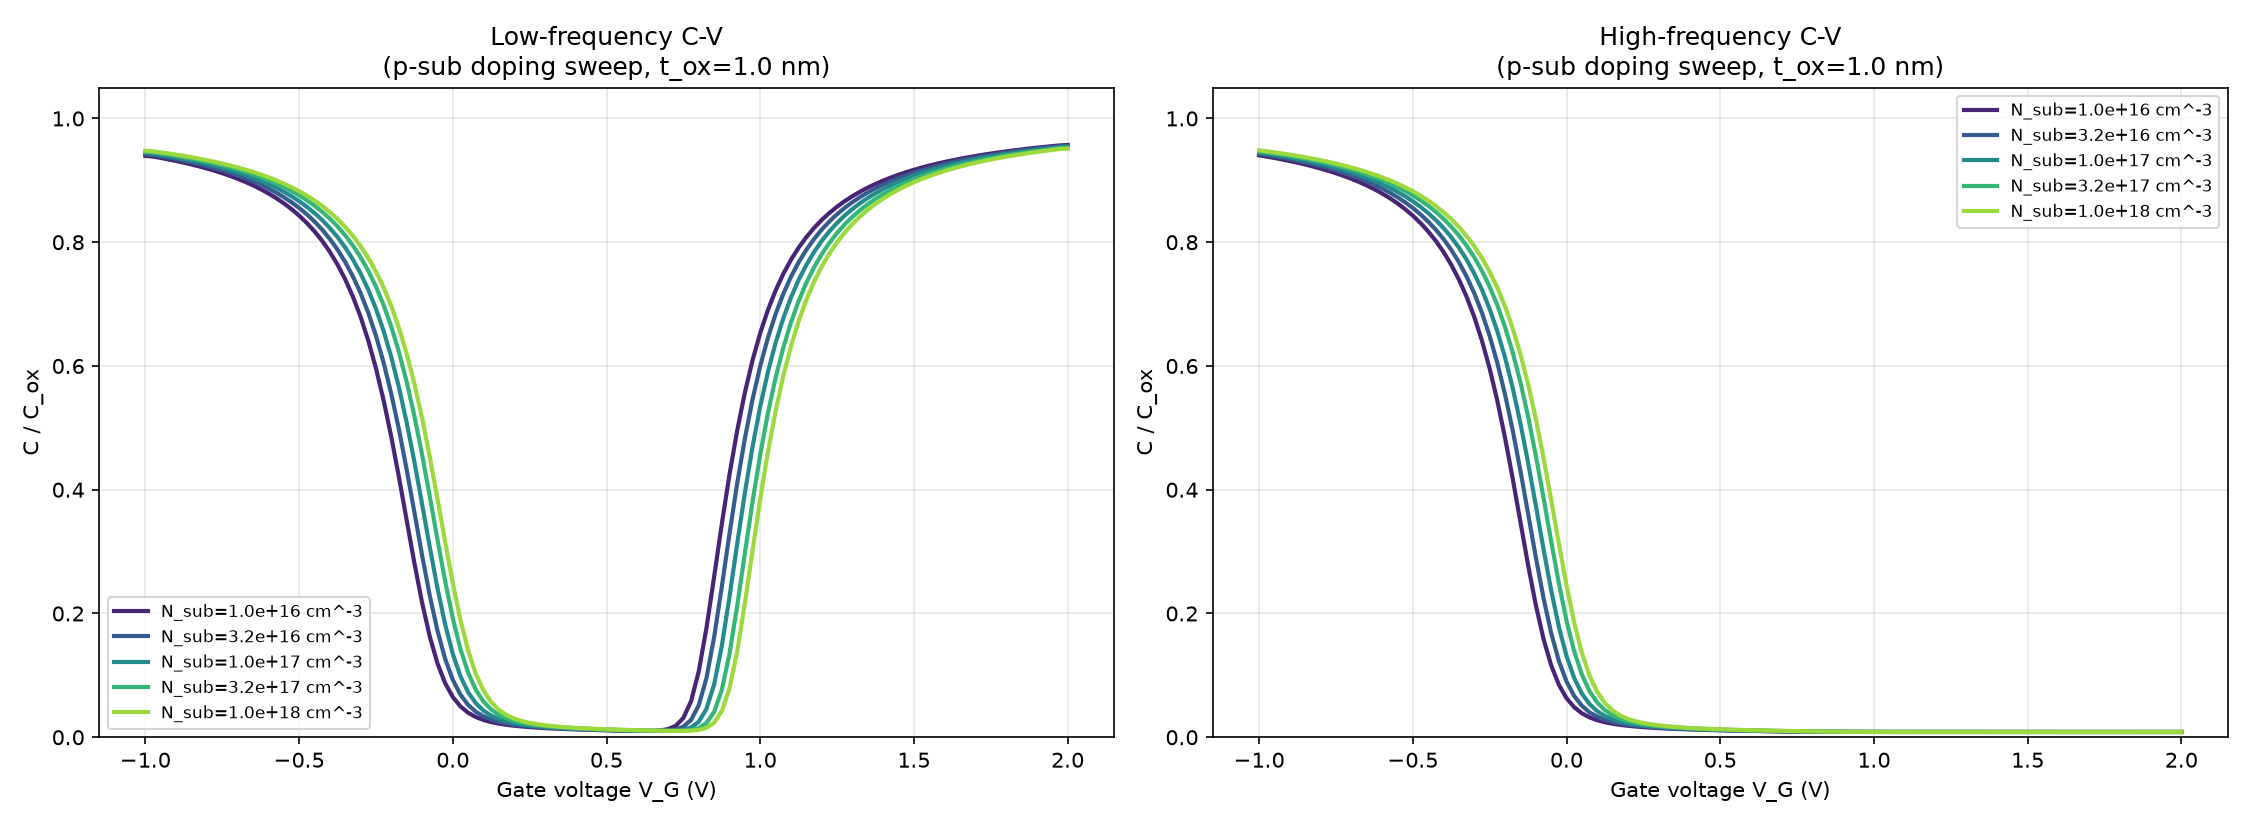
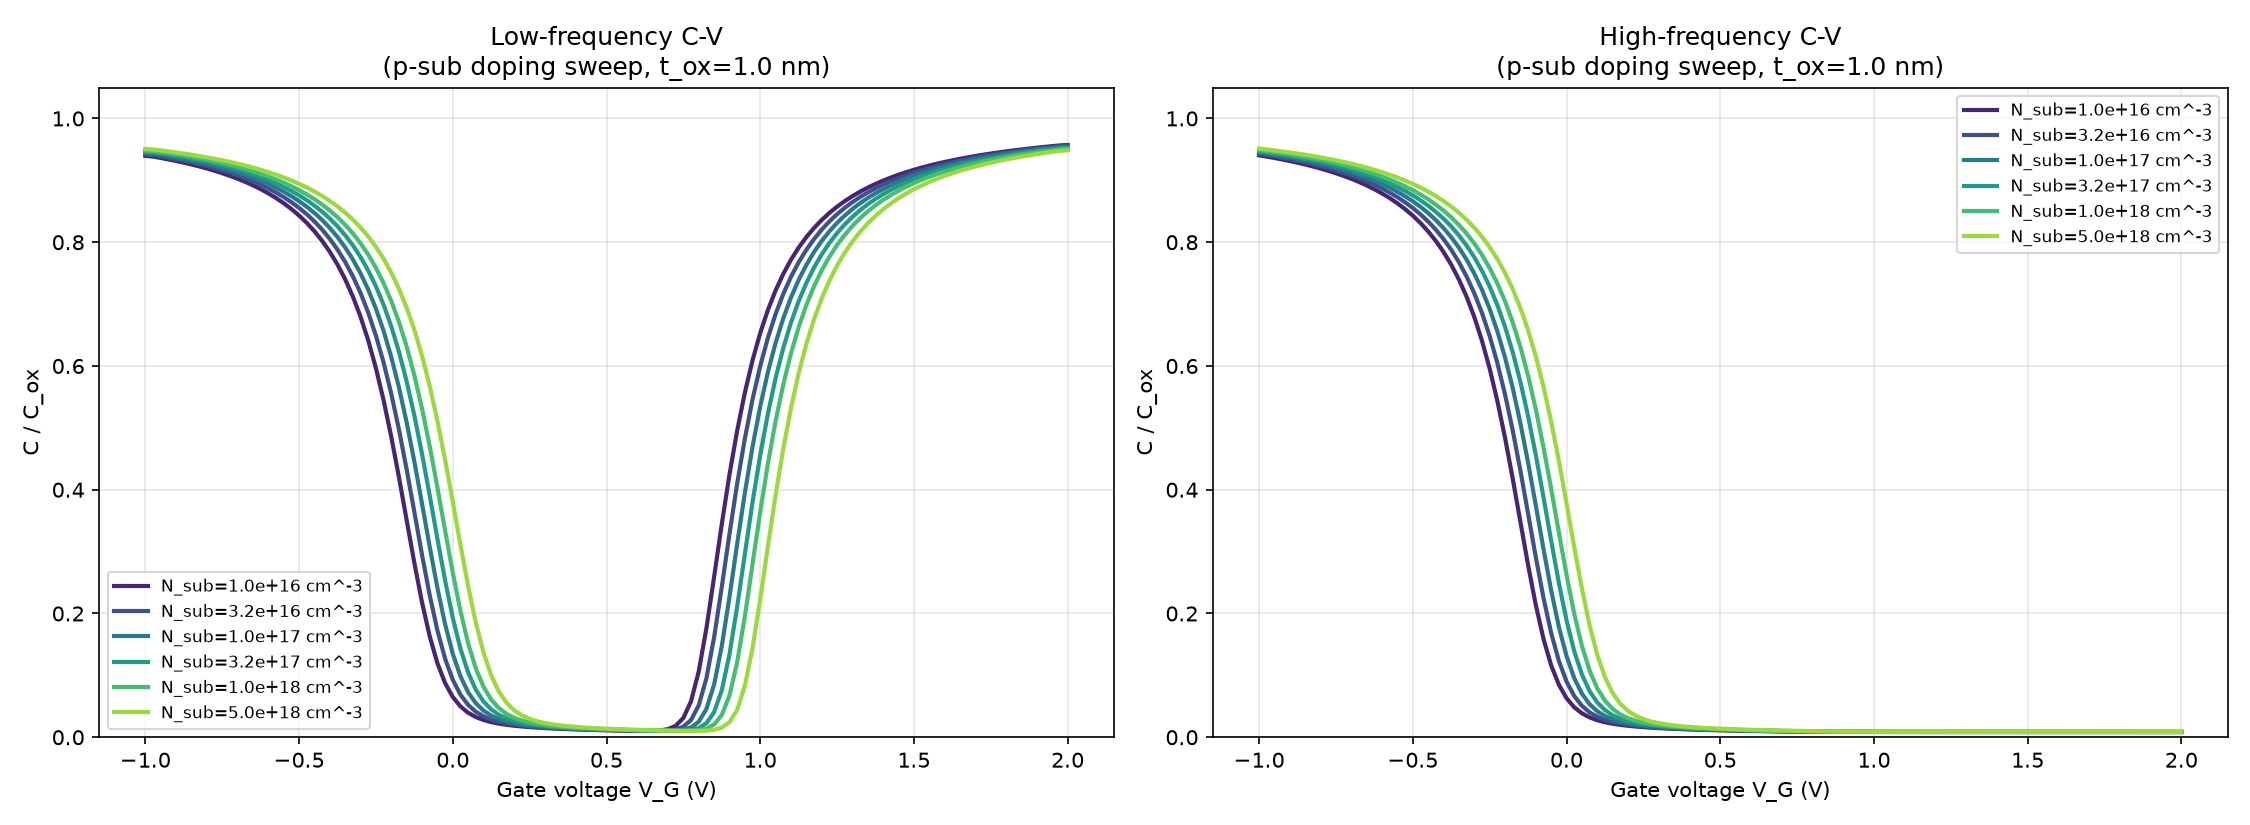
Fix catastrophic cancellation in equilibrium_bulk_potential at high p-type doping
For Cdop<0 (p-type) with |Cdop|/ni large (doping a few times 1e18+ for
silicon), n0=(Cdop+sqrt(Cdop^2+4ni^2))/2 subtracts two nearly-equal large
floats - sqrt(Cdop^2+4ni^2) rounds to exactly |Cdop| once the 4ni^2
correction drops below float64's relative precision, so n0 evaluates to
exactly 0 and log(0) diverges. Caught via a p-sub=5e18 MOS-cap doping sweep
producing NaN/singular-matrix downstream. Fixed by computing the
well-conditioned majority carrier p0 first and deriving n0=ni^2/p0 from it
- algebraically identical, no cancellation. testsuite/ unaffected (normal
doping range untouched by the fix).

Also extends mos_metal_sweep.py's doping sweep to 5e18 (was 1e18) now that
it doesn't crash - the wider range shows a clearer V_T/dip-width trend
(V_T now spans 0.73-1.42V vs 0.73-1.12V before).

diff --git a/physics.py b/physics.py
@@ -67,9 +67,24 @@ def bernoulli_deriv(x: np.ndarray) -> np.ndarray:
 def equilibrium_bulk_potential(mat: Material, Cdop: float) -> float:
     """Exact charge-neutral bulk potential (psi with n=p=ni at psi=0) for a
     given net doping Cdop = Nd-Na, solving n0-p0=Cdop, n0*p0=ni^2 exactly
-    (valid even when |Cdop| is not >> ni)."""
+    (valid even when |Cdop| is not >> ni).
+
+    n0 = (Cdop + sqrt(Cdop^2+4ni^2))/2 is the textbook solution, but for
+    Cdop<0 (p-type) and |Cdop|>>ni it subtracts two nearly-equal large
+    numbers: sqrt(Cdop^2+4ni^2) rounds to exactly |Cdop| in float64 once the
+    4ni^2 correction drops below the ~1e-16 relative precision floor (around
+    |Cdop|/ni ~ 1e8, i.e. doping several times 1e18 for silicon's ni~1e10) -
+    n0 then evaluates to exactly 0.0, and log(0) diverges (caught this via a
+    p-sub=5e18 MOS-cap sweep producing NaN/singular-matrix downstream). Fix:
+    for Cdop<0, compute the MAJORITY carrier p0 first (well-conditioned,
+    adding two positive numbers) and get the minority n0=ni^2/p0 from it -
+    algebraically identical, just avoids the cancellation."""
     ni = mat.ni
-    n0 = (Cdop + np.sqrt(Cdop ** 2 + 4 * ni ** 2)) / 2.0
+    if Cdop >= 0:
+        n0 = (Cdop + np.sqrt(Cdop ** 2 + 4 * ni ** 2)) / 2.0
+    else:
+        p0 = (-Cdop + np.sqrt(Cdop ** 2 + 4 * ni ** 2)) / 2.0
+        n0 = ni ** 2 / p0
     return mat.Vt * np.log(n0 / ni)
 
 

diff --git a/mos_metal_sweep.py b/mos_metal_sweep.py
@@ -37,7 +37,7 @@ import mos_analytic as man
 OUT = os.path.join(os.path.dirname(__file__), "out")
 os.makedirs(OUT, exist_ok=True)
 
-DOPINGS_CM3 = [1e16, 3.16e16, 1e17, 3.16e17, 1e18]
+DOPINGS_CM3 = [1e16, 3.16e16, 1e17, 3.16e17, 1e18, 5e18]
 OXIDES_NM = [0.5, 1.0, 2.0, 5.0, 10.0]
 OXIDE_SWEEP_DOPING_CM3 = 1e17  # substrate doping held fixed for the oxide sweep
 
